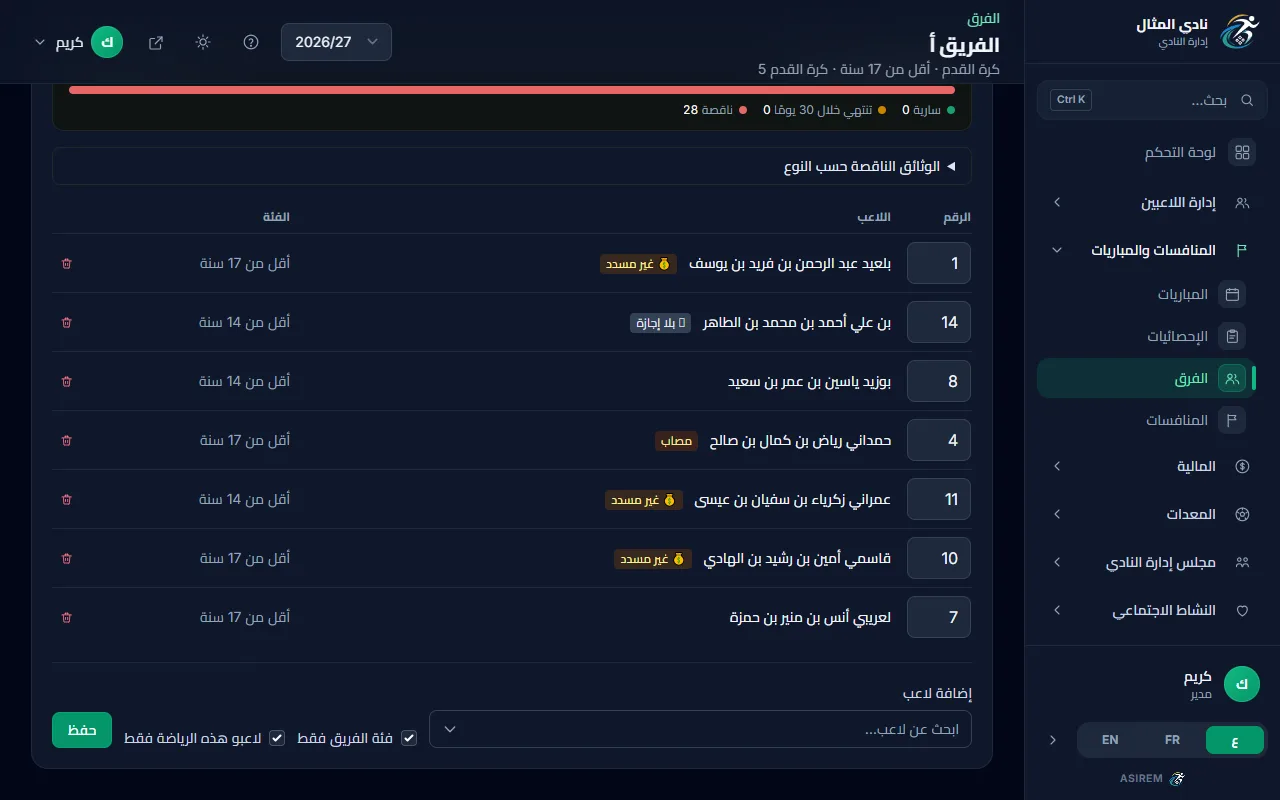
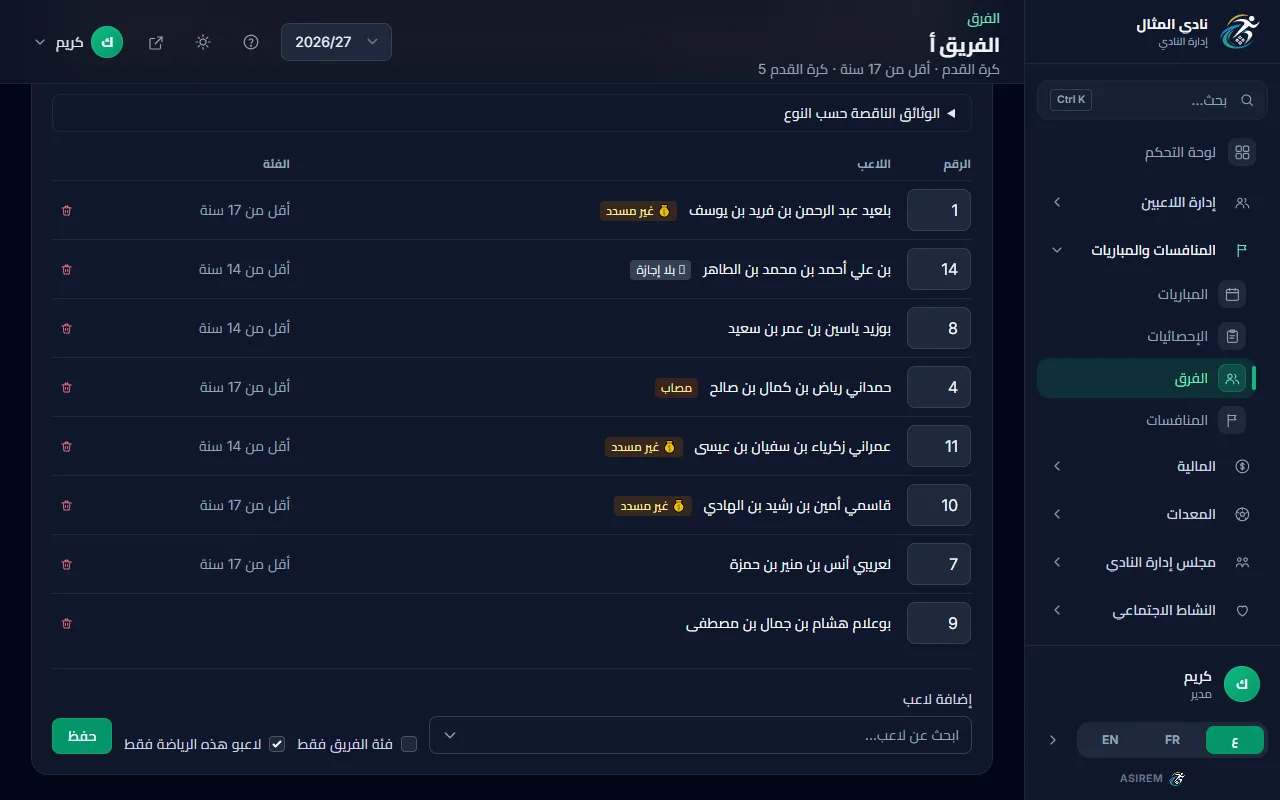
fix(help): roster picker wording, shirt step figure

diff --git a/resources/help/shots.js b/resources/help/shots.js
@@ -1937,11 +1937,19 @@ export default [
         targets: ['team-copy-hint', 'team-copy-roster'],
     },
     {
-        // U17 roster: shirt numbers, the category column and the badges of رياض (4).
+        // U17 roster in the reader's state: بوعلام هشام (10) picked with «فئة الفريق فقط» cleared and
+        // 9 typed in his shirt field (local state, «حفظ» not pressed). The badges of رياض (4) show too.
         name: 'comp-roster-coaches-roster',
         url: '/teams/1',
-        targets: ['team-roster-table', 'team-shirt-7', 'team-shirt-4', 'team-roster-save'],
-        before: async (page) => { await centre(page, 'team-roster-table'); },
+        targets: ['team-roster-table', 'team-shirt-10', 'team-roster-save'],
+        before: async (page) => {
+            await page.locator('[data-help="team-only-category"] input').uncheck();
+            await page.locator('[data-help="team-pick"] > button').click();
+            await page.locator('[data-help="team-pick"] li', { hasText: 'بوعلام' }).first().dispatchEvent('mousedown');
+            await page.locator('input[data-help="team-shirt-10"]').fill('9');
+            await blur(page);
+            await centre(page, 'team-roster-table');
+        },
     },
     {
         // The picker open with «فئة الفريق فقط» cleared, so players of other categories show.

diff --git a/resources/help/ar/competitions/roster-coaches.md b/resources/help/ar/competitions/roster-coaches.md
@@ -19,7 +19,7 @@ related: [competitions/create-team, competitions/opponents-venues]
 :::
 
 :::step اضغط «نسخ الموسم الماضي»
-يظهر الزر فقط عندما تكون تشكيلة الموسم فارغة وكان فيها لاعبون في الموسم الماضي. يضع الزر اللاعبين بأرقامهم، ويترك المؤرشفين ومن غادر النادي ومن غادر رياضة الفريق. تظهر عبارة «تم نسخ تشكيلة الموسم الماضي.». في مثالنا يظهر ثلاثة لاعبين: بن علي أحمد بالرقم 9، وبوزيد ياسين بالرقم 7، وعمراني زكرياء بالرقم 5. بعد النسخ يمكنك تعديل التشكيلة.
+يظهر الزر فقط عندما تكون تشكيلة الموسم فارغة وكان فيها لاعبون في الموسم الماضي. يضع الزر اللاعبين بأرقامهم، ويترك المؤرشفين ومن غادر النادي ومن غادر رياضة الفريق. تظهر عبارة «تم نسخ تشكيلة الموسم الماضي.». في مثالنا يظهر ثلاثة لاعبين. بن علي أحمد رقمه 9، وبوزيد ياسين 7، وعمراني زكرياء 5. بعد النسخ يمكنك تعديل التشكيلة.
 ::figure comp-roster-coaches-copy ring=team-copy-hint,team-copy-roster
 :::
 
@@ -29,13 +29,13 @@ related: [competitions/create-team, competitions/opponents-venues]
 :::
 
 :::step ألغِ علامة «فئة الفريق فقط»، ثم اختر لاعبًا
-لاعبو «أقل من 17 سنة» كلهم في التشكيلة، فلا تعرض القائمة غيرهم. ألغِ علامة «فئة الفريق فقط». اضغط على «ابحث عن لاعب…» تحت «إضافة لاعب». يظهر لاعبون من فئات أخرى. اختر: بوعلام هشام بن جمال بن مصطفى. هكذا يلعب لاعب من فئة أخرى مع هذا الفريق. علامة «لاعبو هذه الرياضة فقط» تبقى مفعّلة.
+لاعبو «أقل من 17 سنة» كلهم في التشكيلة، فالقائمة فارغة ما دامت علامة «فئة الفريق فقط» مفعّلة. ألغِ علامة «فئة الفريق فقط». اضغط على «ابحث عن لاعب…» تحت «إضافة لاعب». يظهر لاعبون من فئات أخرى. اختر: بوعلام هشام بن جمال بن مصطفى. هكذا يلعب لاعب من فئة أخرى مع هذا الفريق. علامة «لاعبو هذه الرياضة فقط» تبقى مفعّلة.
 ::figure comp-roster-coaches-add ring=team-only-category,team-pick,team-only-sport
 :::
 
 :::step اكتب أرقام القمصان
-في الجدول رقم كل لاعب واسمه وفئته. عند رياض حمداني شارة «مصاب». ومن غادر رياضة الفريق عنده شارة «غادر هذه الرياضة». اكتب في خانة «الرقم» رقمًا من 0 إلى 99. للاعب الجديد اكتب 9. الخانة اختيارية. لا يتكرر الرقم في الفريق نفسه. إذا تكرر، يرفض البرنامج الحفظ.
-::figure comp-roster-coaches-roster ring=team-roster-table
+في الجدول رقم كل لاعب واسمه وفئته. عند رياض حمداني شارة «مصاب». ومن غادر رياضة الفريق عنده شارة «غادر هذه الرياضة». اكتب في خانة «الرقم» رقمًا من 0 إلى 99. للاعب الجديد، بوعلام هشام، اكتب 9. الخانة اختيارية. لا يتكرر الرقم في الفريق نفسه. إذا تكرر، يرفض البرنامج الحفظ.
+::figure comp-roster-coaches-roster ring=team-roster-table,team-shirt-10
 :::
 
 :::step اضغط «حفظ»
@@ -44,6 +44,6 @@ related: [competitions/create-team, competitions/opponents-venues]
 :::
 
 :::step افتح تبويب «المدربون»
-اضغط على «المدربون» فوق الجدول. ترى سمير بوعزة بصفة «المدرب الرئيسي». لتغيير المدربين اضغط «إضافة»، واختر المستخدم والصفة، ثم اضغط «حفظ». تعديل المدربين يحتاج إلى صلاحية «تعديل» في «الفرق». ولا يتاح للمدرب المحصور في فرقه.
+اضغط على «المدربون» فوق الجدول. ترى سمير بوعزة بصفة «المدرب الرئيسي». لتغيير المدربين اضغط «إضافة»، واختر المستخدم والصفة «المدرب الرئيسي» أو «مساعد»، ثم اضغط «حفظ». تعديل المدربين يحتاج إلى صلاحية «تعديل» في «الفرق». ولا يتاح للمدرب المحصور في فرقه.
 ::figure comp-roster-coaches-coaches ring=team-tab-coaches,team-coach-user-0,team-coach-role-0,team-coach-add,team-coach-save
 :::

diff --git a/resources/help/ar/competitions/create-team.md b/resources/help/ar/competitions/create-team.md
@@ -49,5 +49,5 @@ related: [competitions/roster-coaches, competitions/opponents-venues]
 :::
 
 :::warning
-⚠ حذف الفريق الذي ليس له منافسات ولا مباريات نهائي. الفريق الذي لهما يُؤرشف بدلًا من ذلك. يظهر المؤرشف بخيار «إظهار المؤرشف». زر «حذف» في تبويب «الفريق». يحتاج إلى صلاحية «حذف» في «الفرق». ولا يظهر للمدرب المحصور في فرقه.
+⚠ حذف الفريق الذي ليس له منافسات ولا مباريات نهائي. الفريق الذي له منافسات أو مباريات يُؤرشف بدلًا من ذلك. يظهر المؤرشف بخيار «إظهار المؤرشف». زر «حذف» في تبويب «الفريق». يحتاج إلى صلاحية «حذف» في «الفرق». ولا يظهر للمدرب المحصور في فرقه.
 :::
